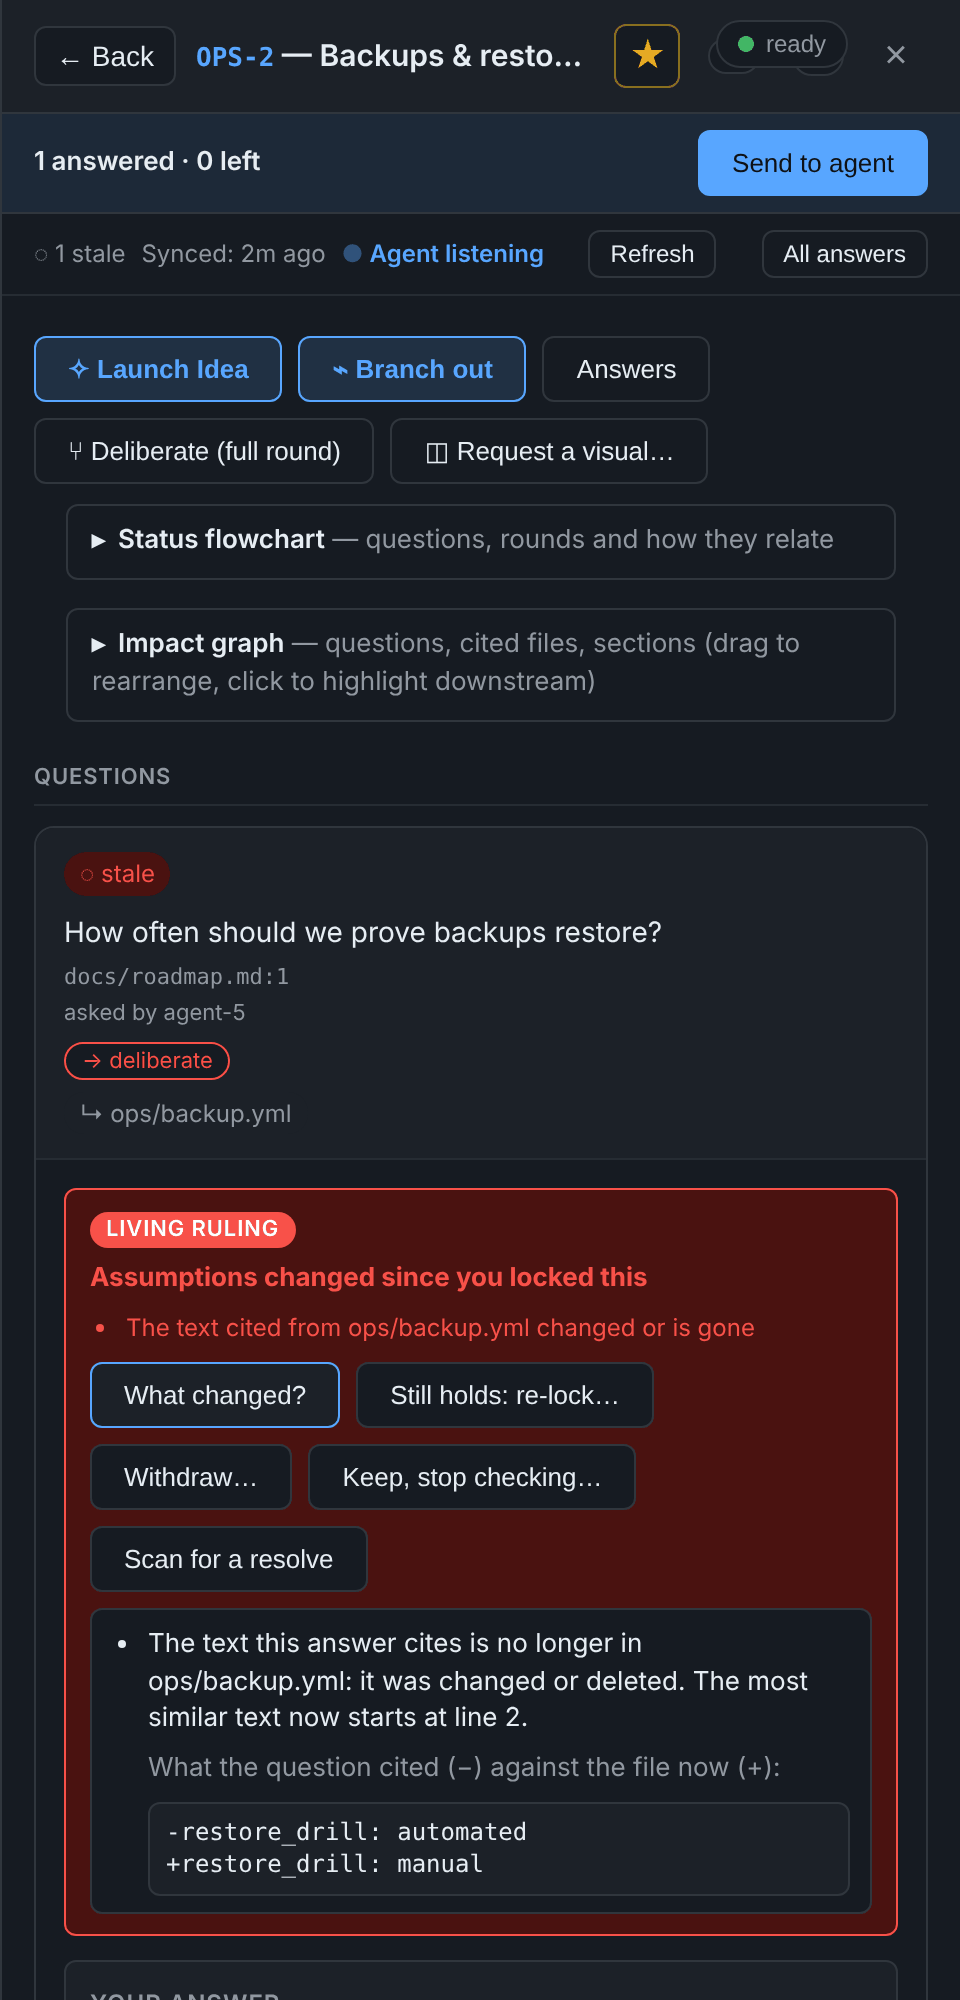
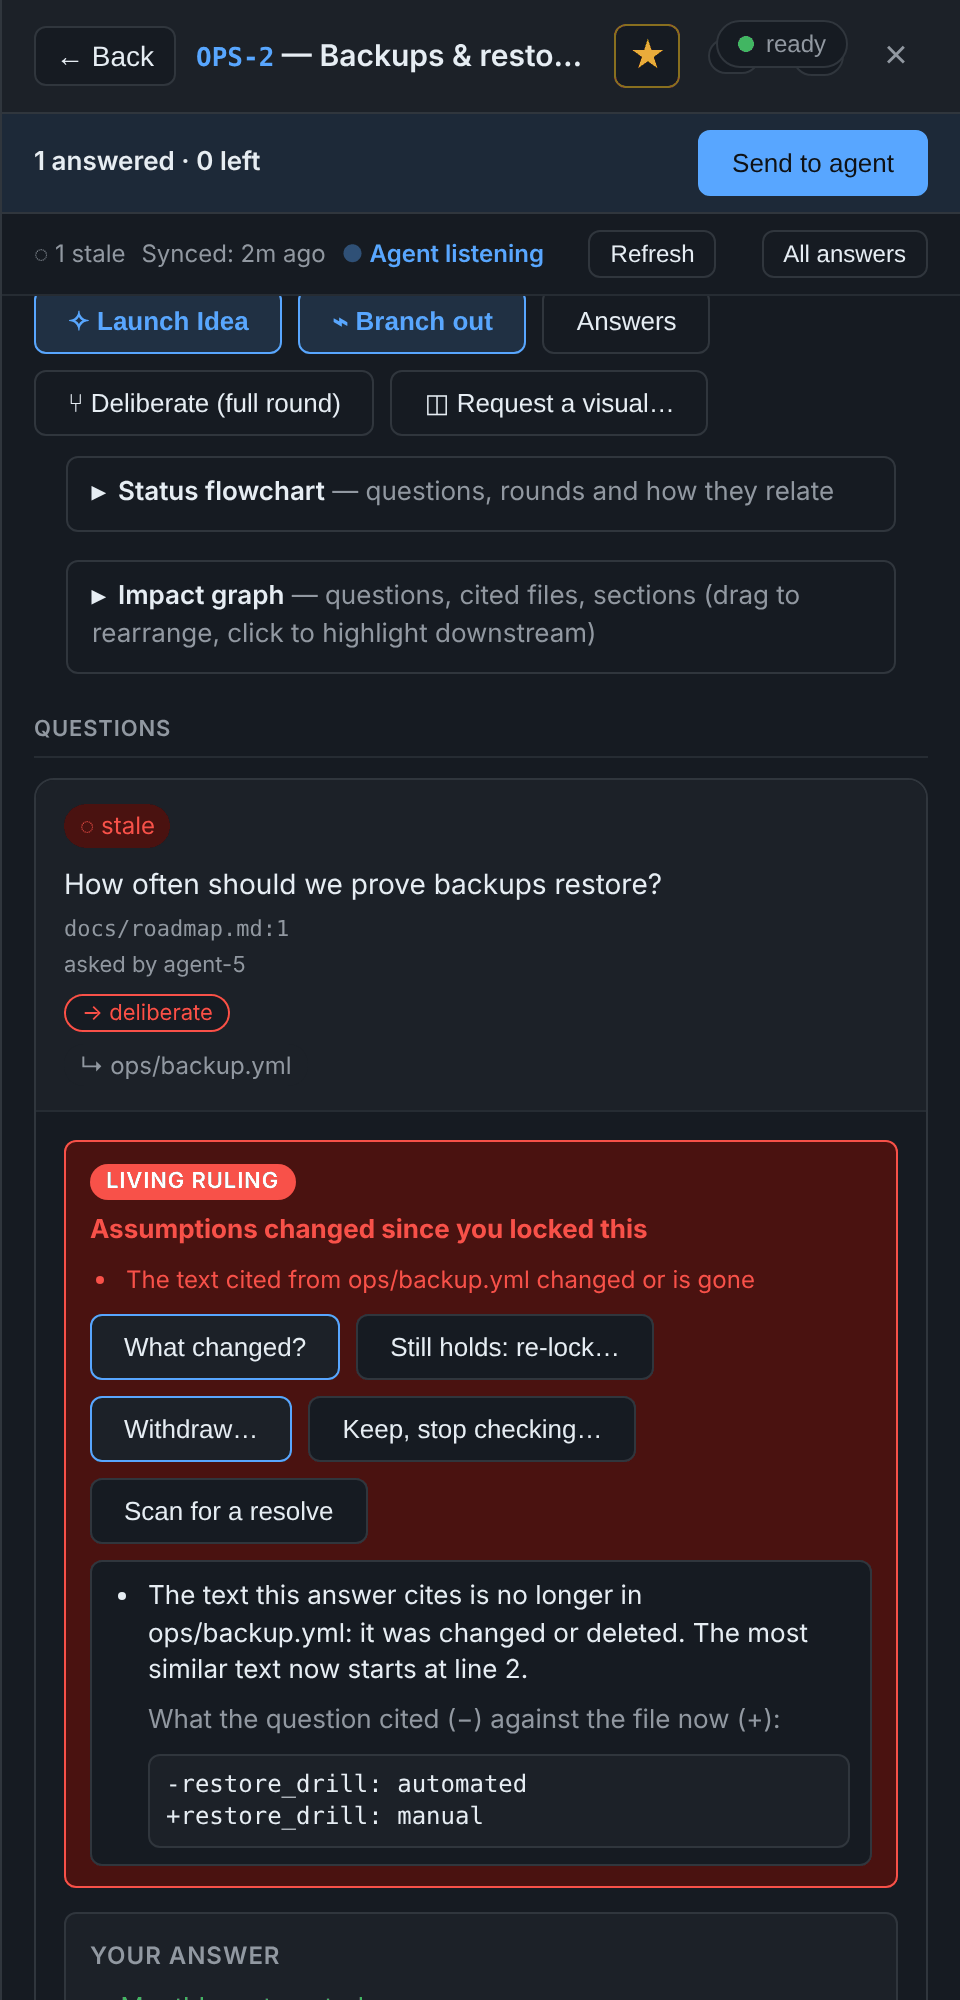
docs: show the whole "What changed?" diff in the stale-ruling GIF (#124)
The capture scrolled the diff box with scroll_into_view_if_needed, which
only brings its top edge into view, so the diff itself sat below the
crop. It now scrolls the box's bottom edge into view.

Claude-Session: https://claude.ai/code/session_01ECWTMJdV8EtKvMwqCxis3n

Changed region(s): [[0.0312, 0.124, 0.9375, 1.0], [0.9062, 0.279, 0.9375, 0.31]]

diff --git a/docs/demo/screenshots.py b/docs/demo/screenshots.py
@@ -328,6 +328,12 @@ class Demo:
         D.write_watch(self.cfg.state, True, every=3600)
 
 
+# Scroll an element's BOTTOM edge into view (with a little air), so a box that opens below the
+# fold is shown whole; scroll_into_view_if_needed only guarantees its top edge.
+SHOW_WHOLE = "el => { el.scrollIntoView({block: 'end'}); const p = el.closest('.ck-body') || el.parentElement;" \
+             " if (p && p.scrollBy) p.scrollBy(0, 24); }"
+
+
 # -- capture ---------------------------------------------------------------
 def capture(demo: Demo) -> list[str]:
     from playwright.sync_api import sync_playwright
@@ -476,7 +482,7 @@ def capture(demo: Demo) -> list[str]:
             if why.count():
                 why.click()
                 pg.wait_for_timeout(1200)
-                pg.locator(".ck-why").first.scroll_into_view_if_needed()
+                pg.locator(".ck-why").first.evaluate(SHOW_WHOLE)
                 pg.wait_for_timeout(300)
             panel(pg, "feature-stale")
         shot("feature-stale", stale)
@@ -581,7 +587,7 @@ def record_gifs(browser, url: str, problems: list[str]) -> None:
     rec("anim-stale", [
         (go("OPS-2"), 1400),
         (click("What changed", 1400), 1200),
-        (lambda pg: (pg.locator(".ck-why").first.scroll_into_view_if_needed(), pg.wait_for_timeout(400)), 3600),
+        (lambda pg: (pg.locator(".ck-why").first.evaluate(SHOW_WHOLE), pg.wait_for_timeout(500)), 3600),
     ])
     # Command palette: type, jump.
     rec("anim-palette", [
